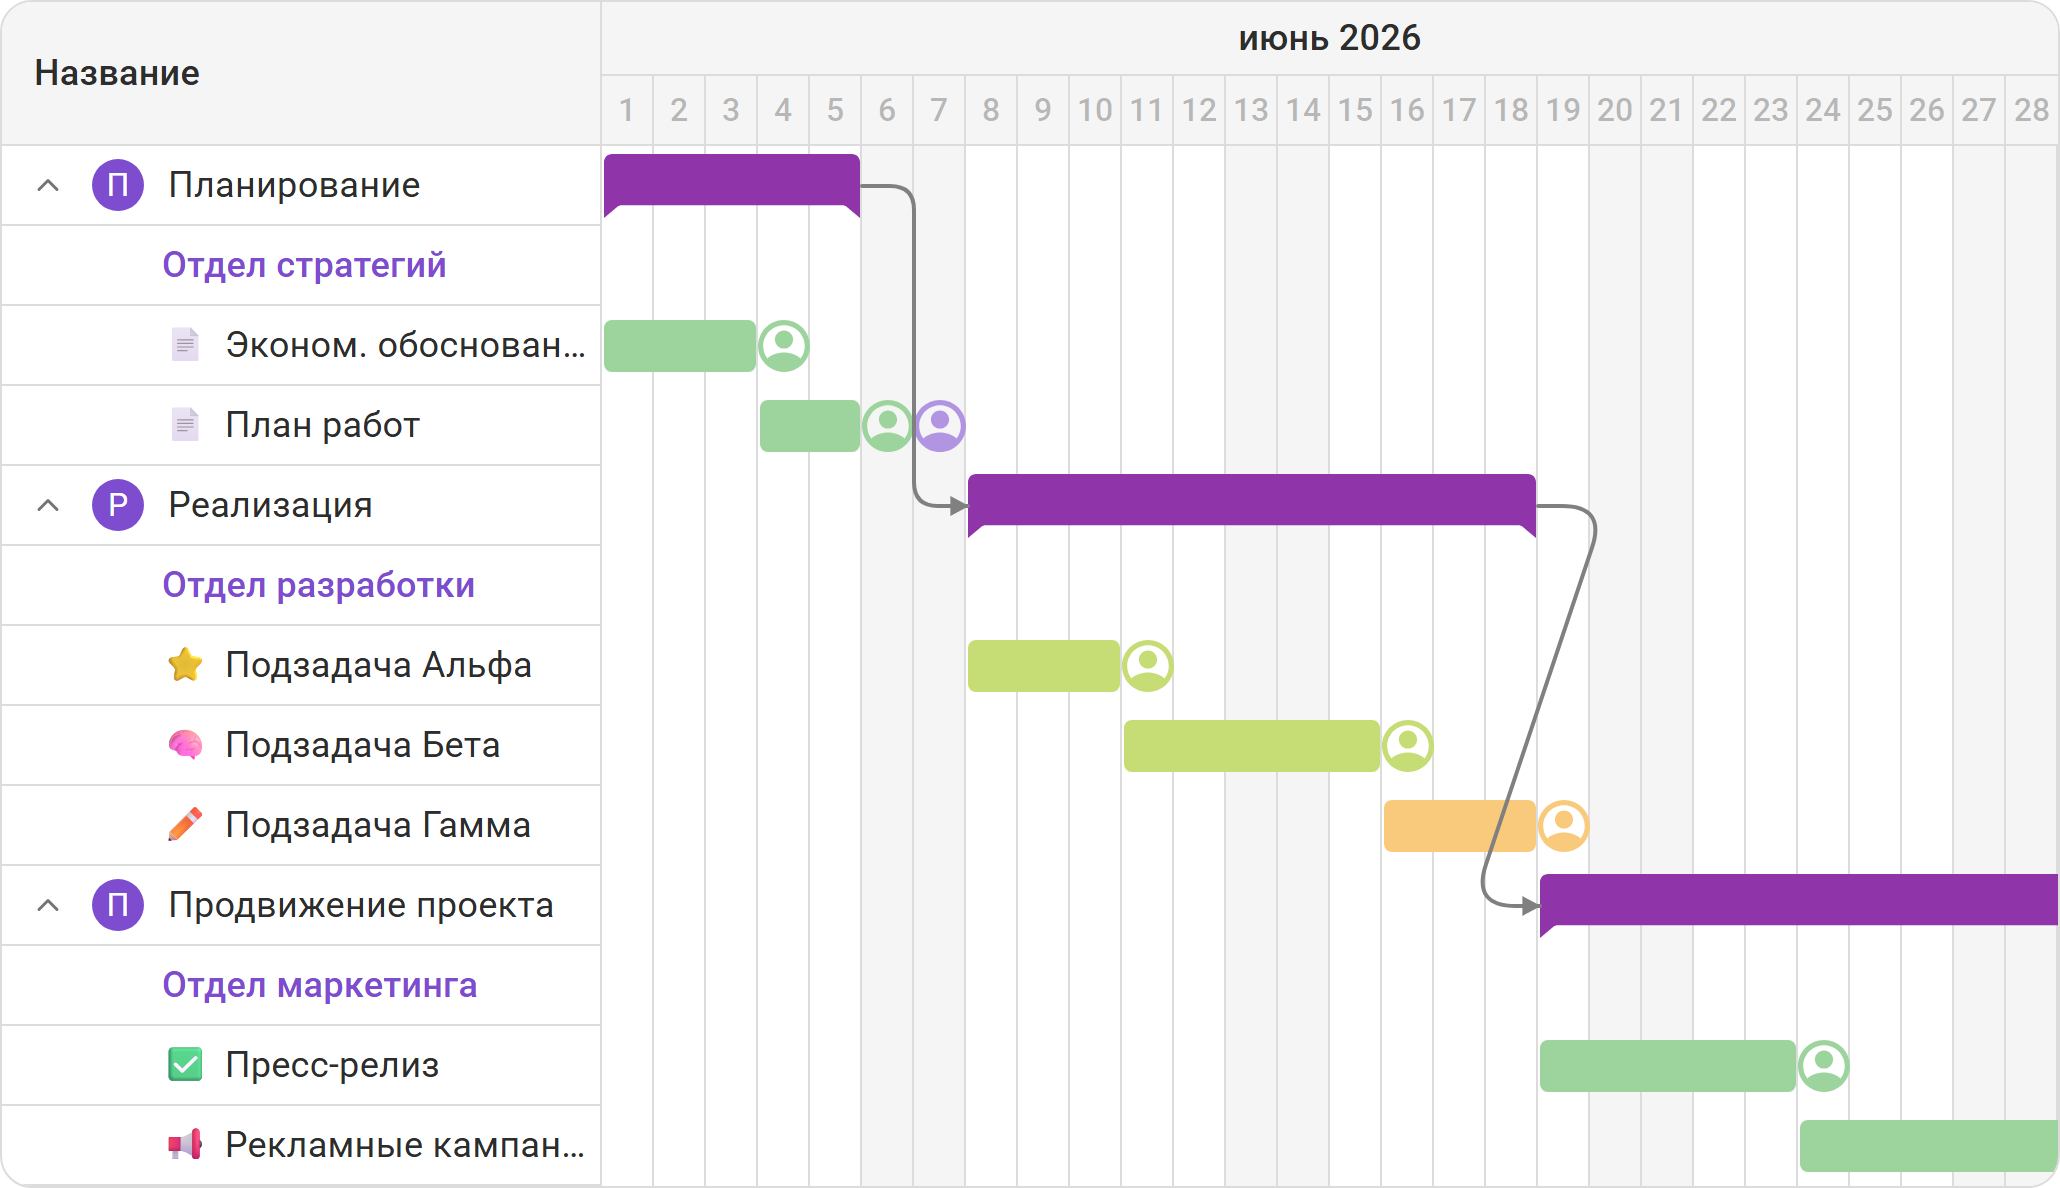
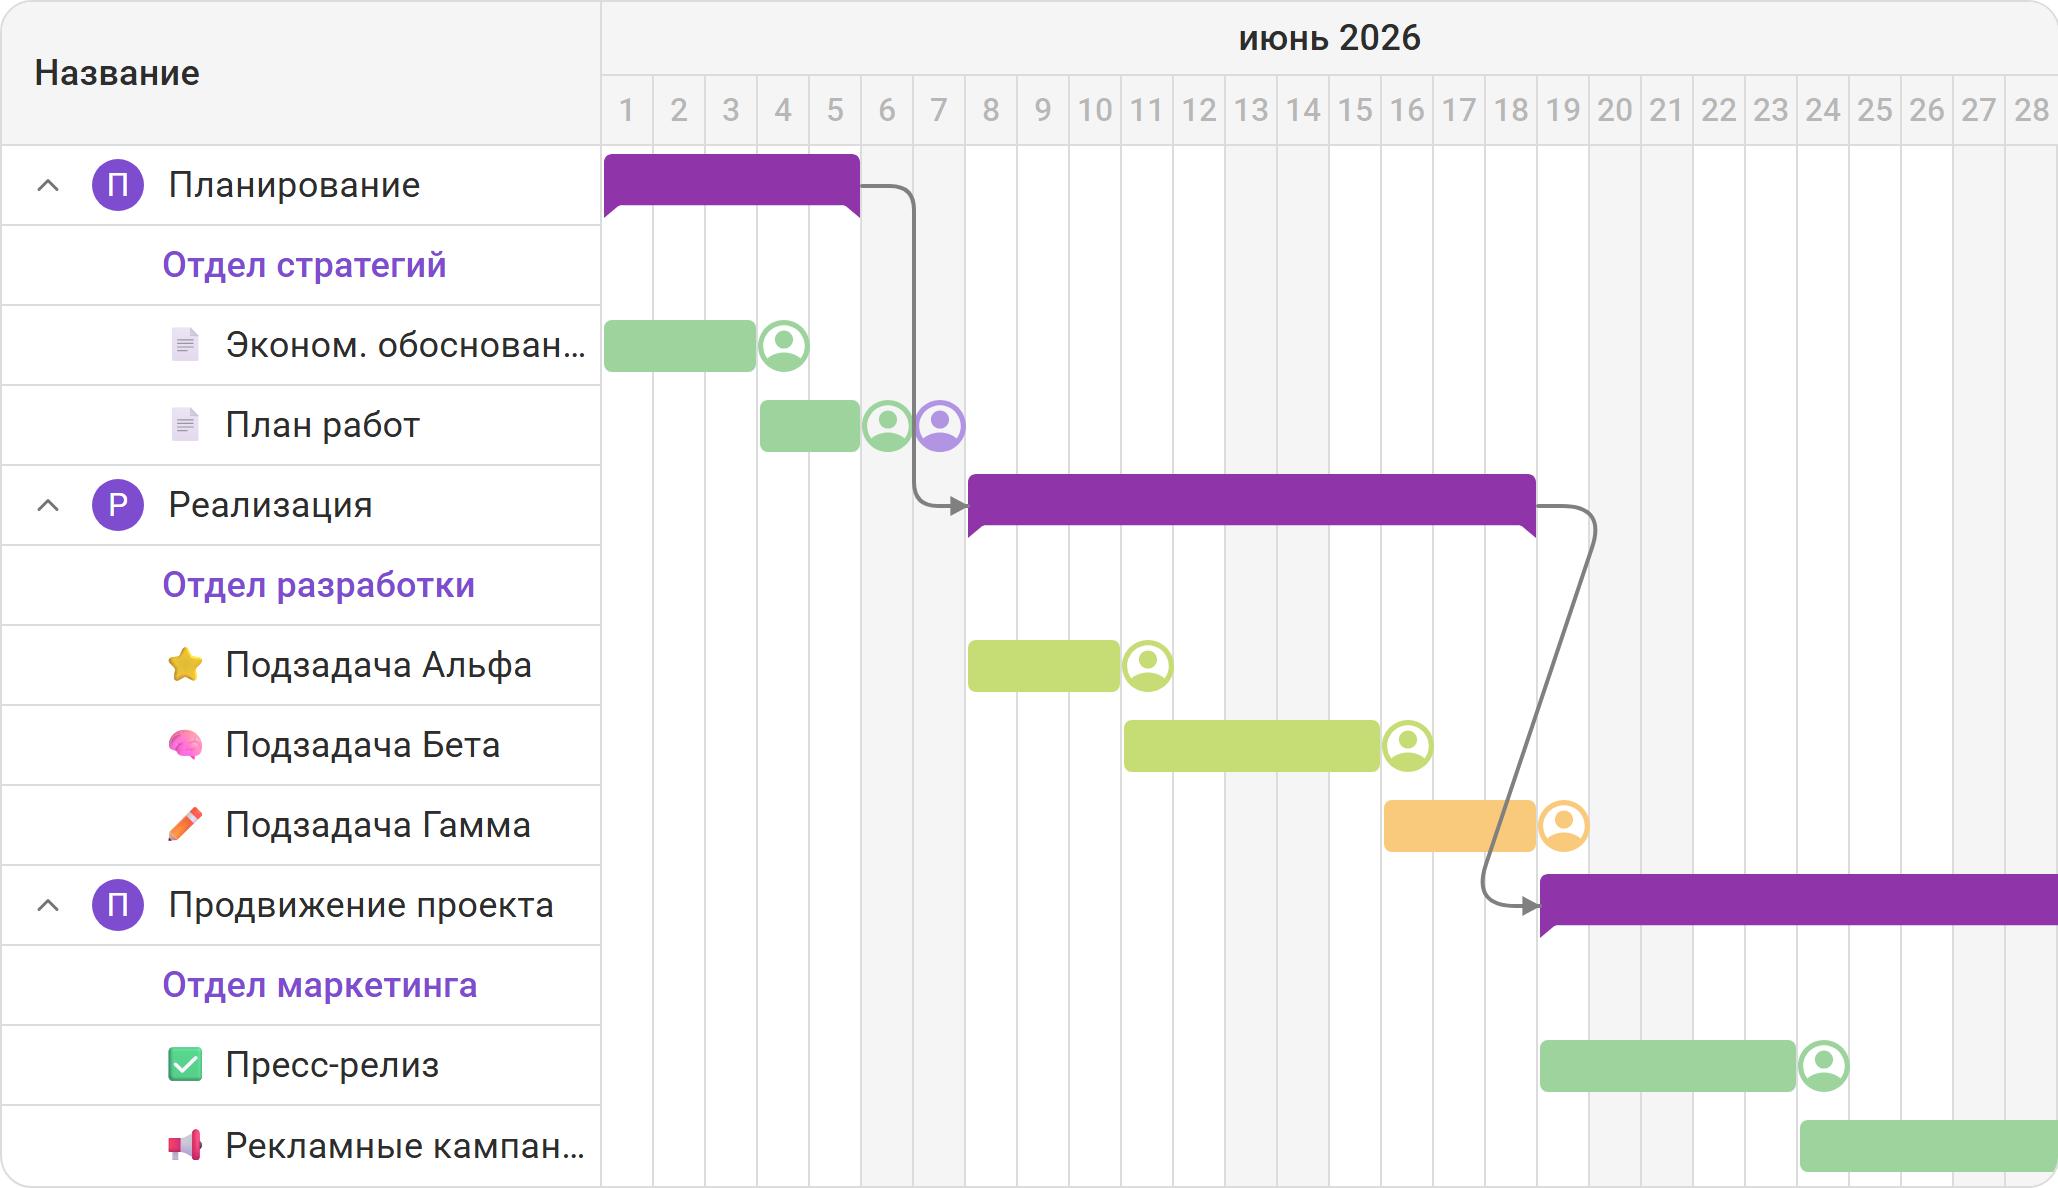
Кайтен для MS project: одинарные линии по краям hero-ганта

diff --git a/Кайтен для MS project/index.html b/Кайтен для MS project/index.html
@@ -61,7 +61,7 @@
       </div>
     </div>
     <div class="hero__visual">
-      <img class="hero-shot" src="assets/mocks/hero-gantt.png?v=2" alt="Диаграмма Ганта в Кайтен: план проекта с зависимостями между задачами" width="1030" height="626" fetchpriority="high">
+      <img class="hero-shot" src="assets/mocks/hero-gantt.png?v=3" alt="Диаграмма Ганта в Кайтен: план проекта с зависимостями между задачами" width="1029" height="594" fetchpriority="high">
     </div>
     <div class="trust-line">
       <div class="trust-track"><div class="trust-set"><b><svg viewBox="0 0 24 24" fill="none" stroke="currentColor" stroke-width="2" stroke-linecap="round" stroke-linejoin="round"><path d="M12 22s8-4 8-10V5l-8-3-8 3v7c0 6 8 10 8 10z"/><path d="m9 12 2 2 4-4"/></svg>Российское ПО</b><span class="sep"></span>
